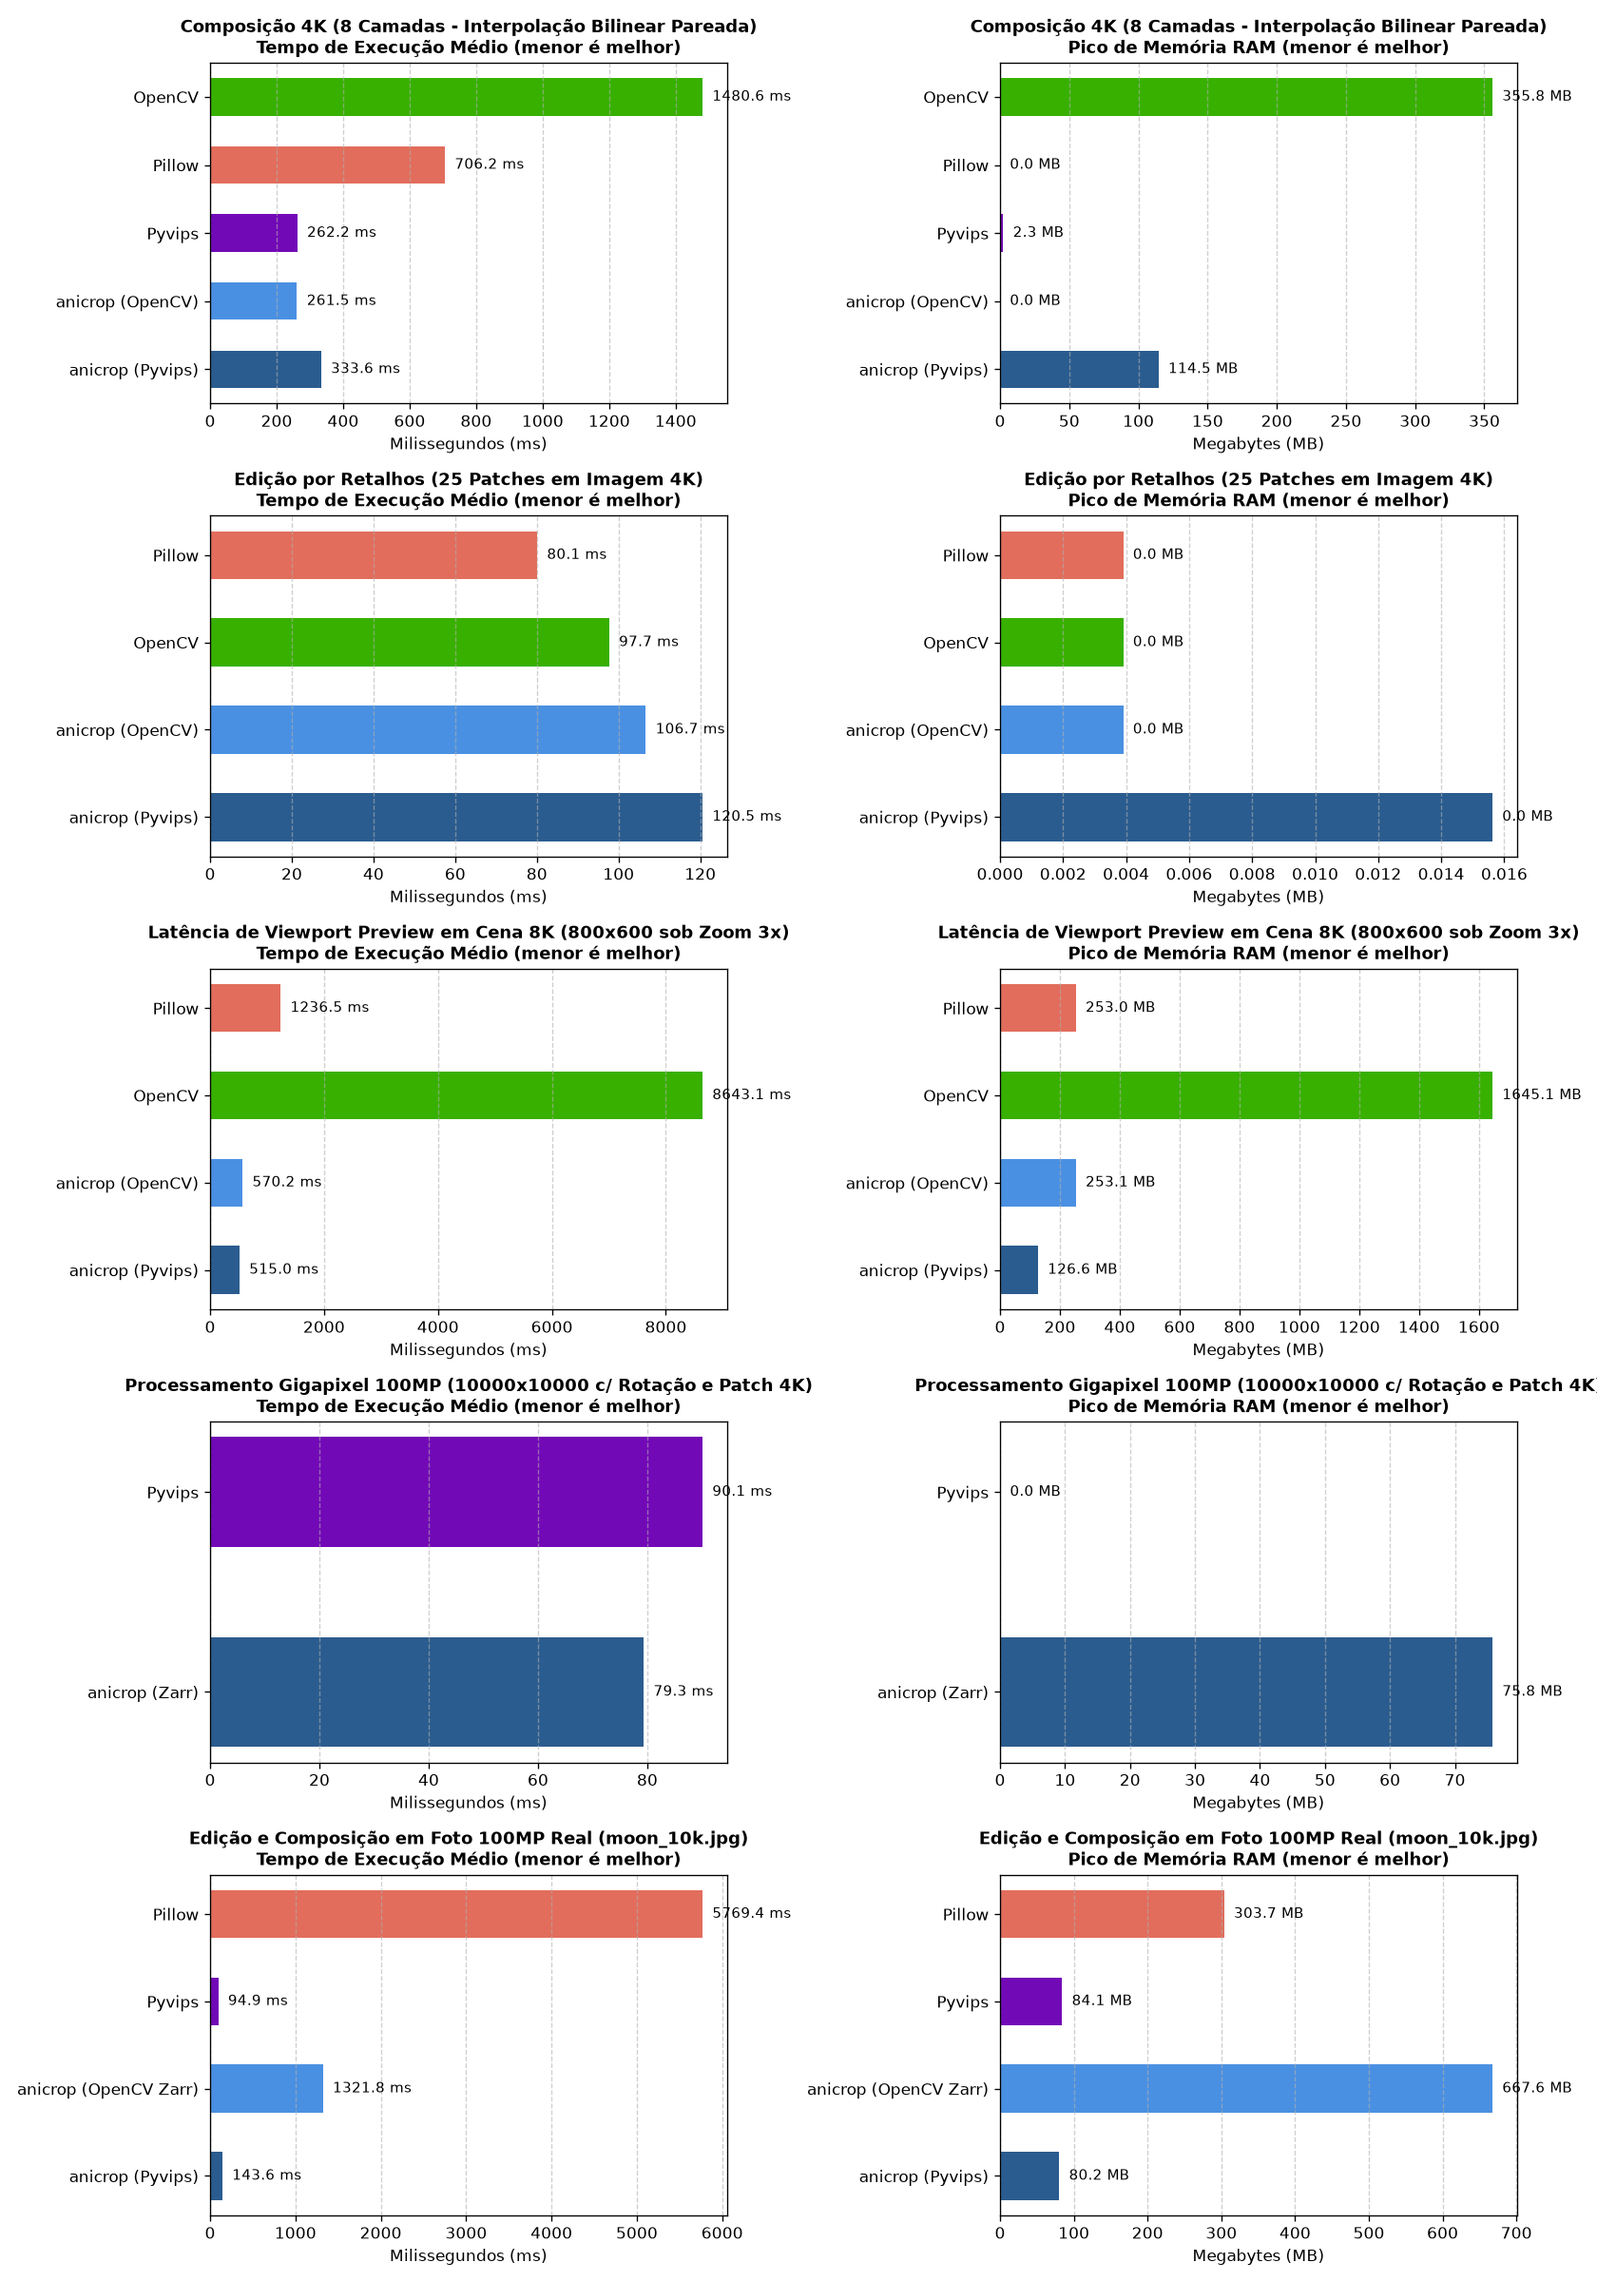
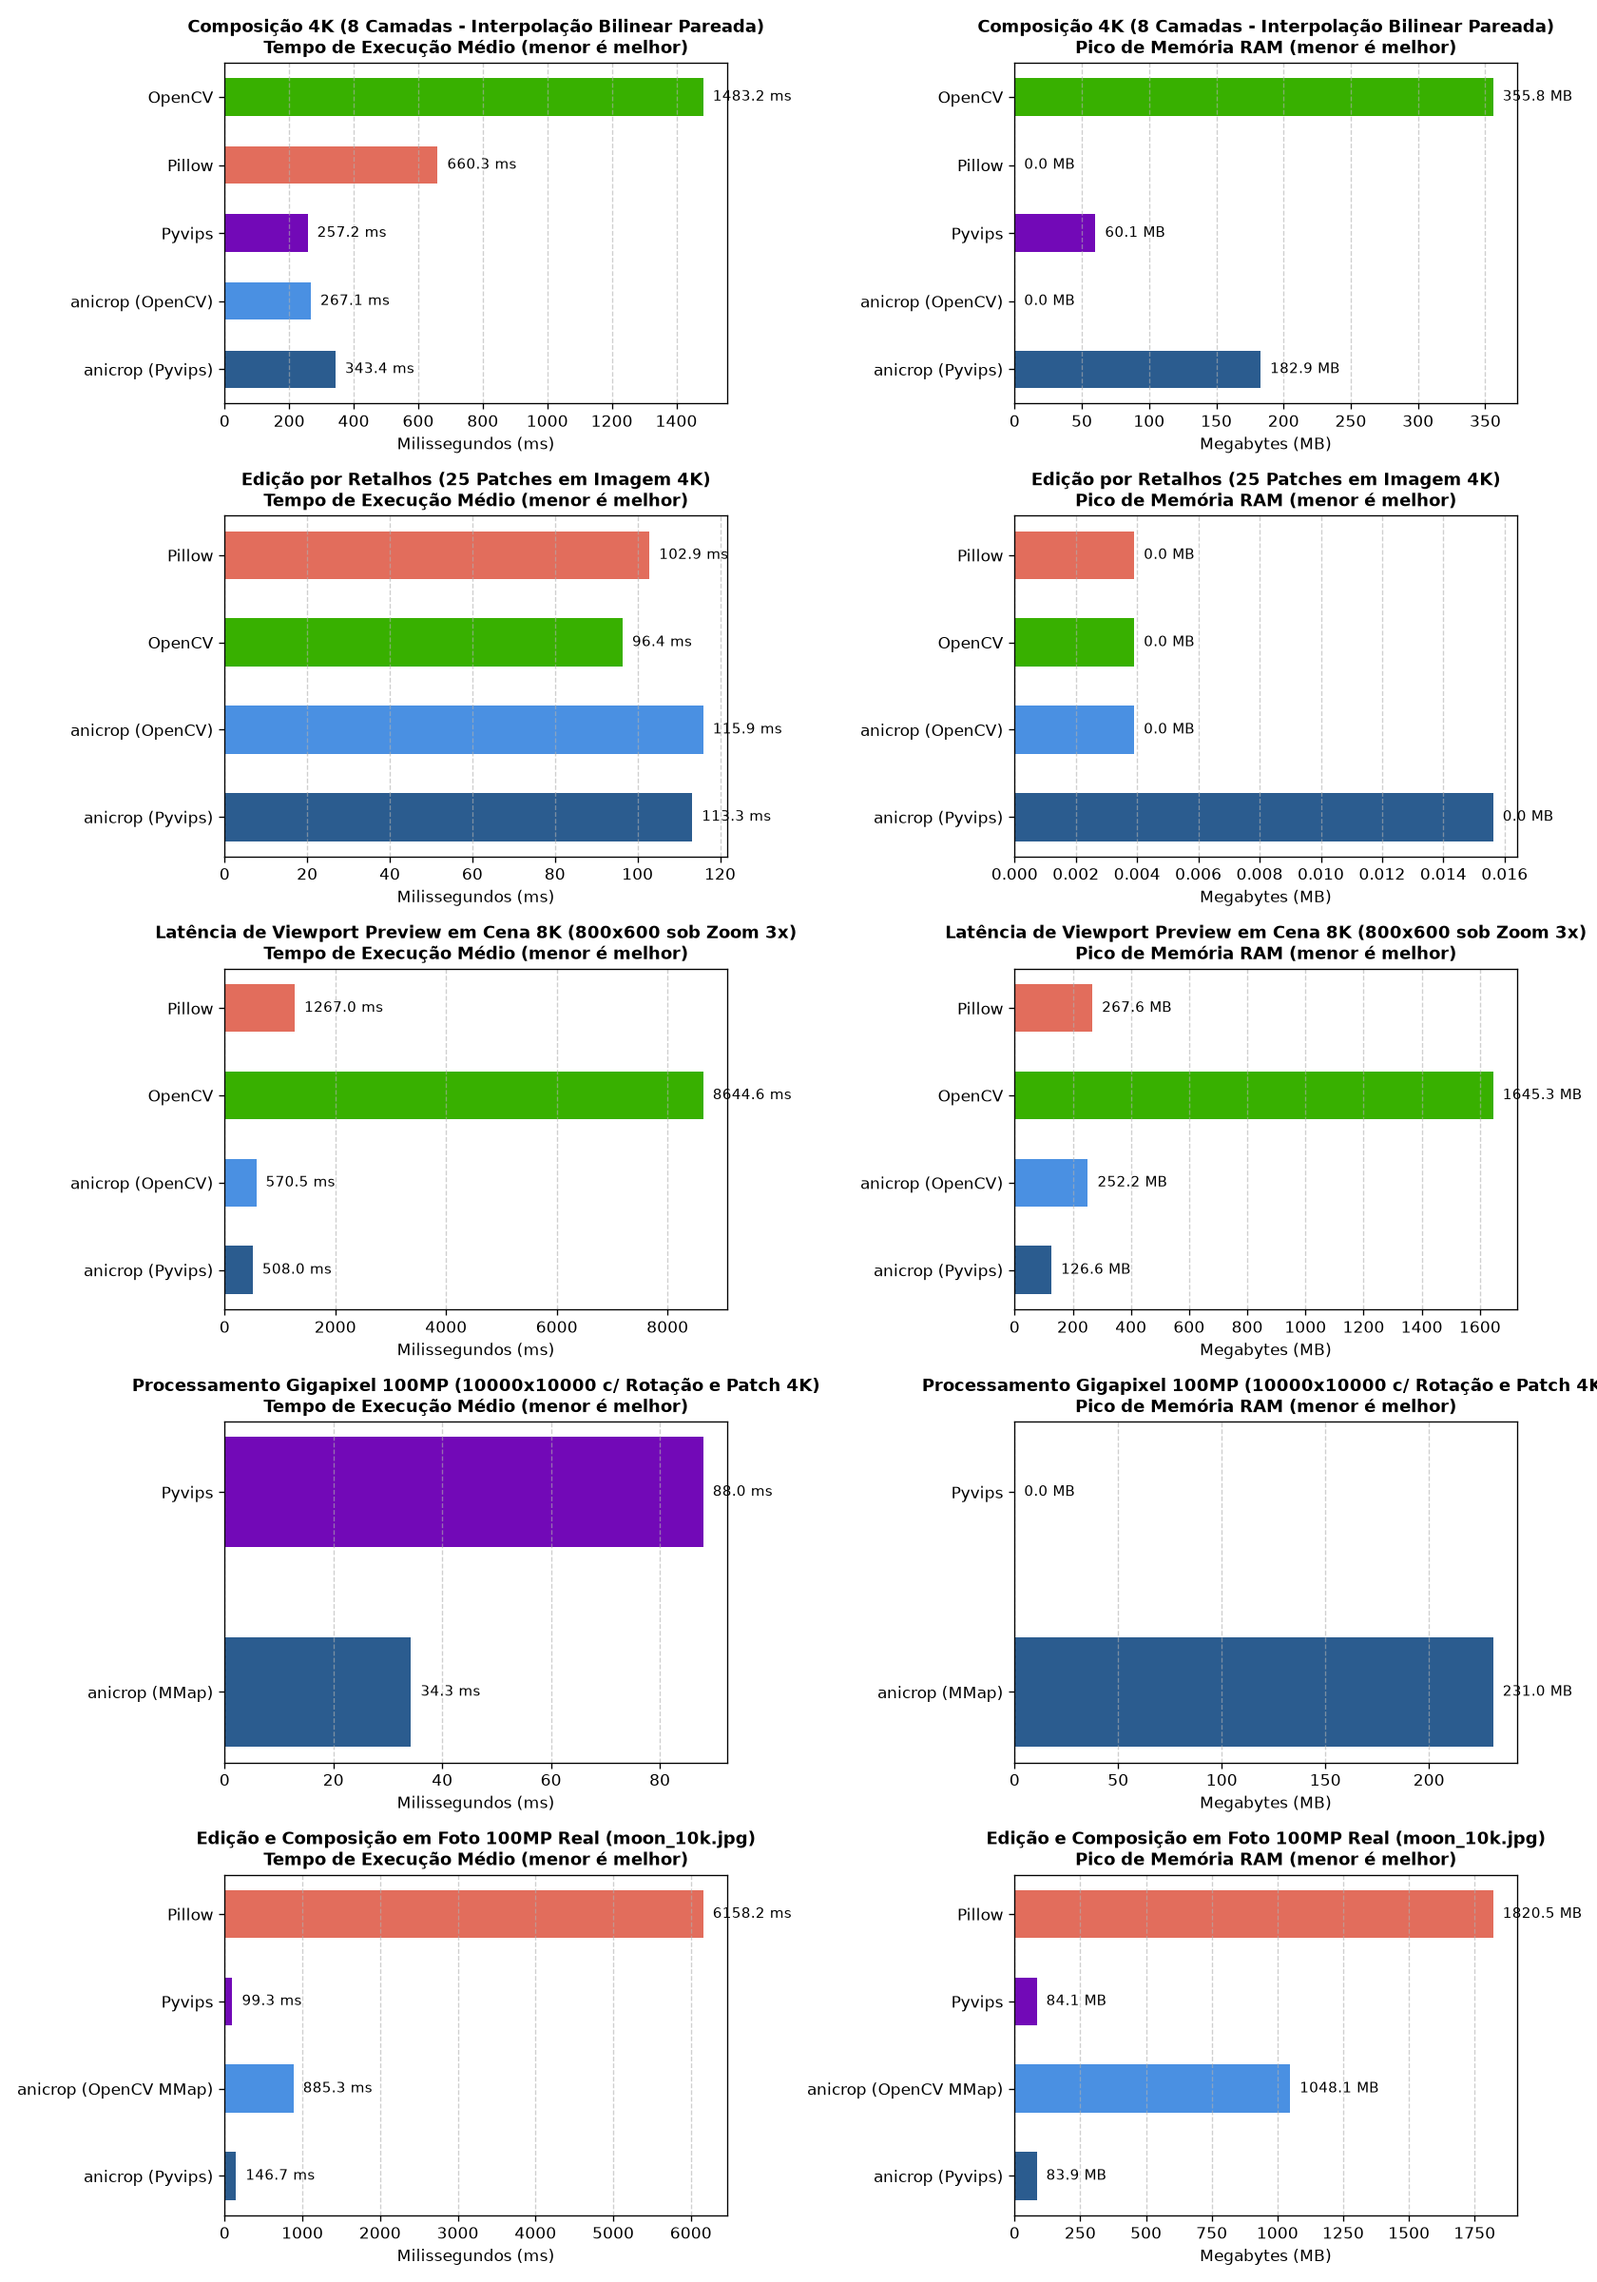
bench: atualiza metricas consolidadas com o novo backend mmapbuffer
- Registra ganho de performance do MMapBuffer no Cenario D (34.26 ms vs 79.35 ms do Zarr).
- Registra aceleracao do backend OpenCV MMap no Cenario E (885.34 ms vs 1321.78 ms do Zarr).
- Atualiza grafico consolidado benchmarks/benchmark_comparison.png.

diff --git a/benchmarks/RESULTS.md b/benchmarks/RESULTS.md
@@ -1,6 +1,6 @@
 # Avaliação de Desempenho do anicrop em Pipelines de Renderização 2D
 
-> **Data de Execução:** 2026-09-05 02:10:57
+> **Data de Execução:** 2026-09-05 03:23:53
 > **Ambiente:** Python 3.12+, uv virtualenv, Linux
 > **Bibliotecas Analisadas:** `anicrop`, `Pillow`, `OpenCV` (NumPy), `Pyvips`
 
@@ -10,49 +10,49 @@
 
 | Biblioteca           | Tempo Médio   | Throughput (FPS)   | Min        | Max        | Pico RAM   |
 |----------------------|---------------|--------------------|------------|------------|------------|
-| **anicrop (Pyvips)** | 333.60 ms     | 3.00 FPS           | 328.86 ms  | 336.76 ms  | 114.48 MB  |
-| **anicrop (OpenCV)** | 261.45 ms     | 3.82 FPS           | 260.03 ms  | 263.54 ms  | 0.00 MB    |
-| **Pyvips**           | 262.19 ms     | 3.81 FPS           | 254.75 ms  | 274.82 ms  | 2.29 MB    |
-| **Pillow**           | 706.20 ms     | 1.42 FPS           | 651.05 ms  | 740.21 ms  | 0.00 MB    |
-| **OpenCV**           | 1480.63 ms    | 0.68 FPS           | 1467.53 ms | 1492.97 ms | 355.85 MB  |
+| **anicrop (Pyvips)** | 343.37 ms     | 2.91 FPS           | 325.42 ms  | 392.97 ms  | 182.90 MB  |
+| **anicrop (OpenCV)** | 267.07 ms     | 3.74 FPS           | 260.34 ms  | 275.06 ms  | 0.00 MB    |
+| **Pyvips**           | 257.18 ms     | 3.89 FPS           | 252.42 ms  | 267.29 ms  | 60.12 MB   |
+| **Pillow**           | 660.32 ms     | 1.51 FPS           | 639.48 ms  | 699.54 ms  | 0.01 MB    |
+| **OpenCV**           | 1483.19 ms    | 0.67 FPS           | 1476.53 ms | 1489.49 ms | 355.85 MB  |
 
 
 ### Edição por Retalhos (25 Patches em Imagem 4K)
 
 | Biblioteca           | Tempo Médio   | Throughput (FPS)   | Min       | Max       | Pico RAM   |
 |----------------------|---------------|--------------------|-----------|-----------|------------|
-| **anicrop (Pyvips)** | 120.55 ms     | 8.30 FPS           | 99.52 ms  | 170.74 ms | 0.02 MB    |
-| **anicrop (OpenCV)** | 106.66 ms     | 9.38 FPS           | 102.83 ms | 113.31 ms | 0.00 MB    |
-| **OpenCV**           | 97.69 ms      | 10.24 FPS          | 95.67 ms  | 105.46 ms | 0.00 MB    |
-| **Pillow**           | 80.07 ms      | 12.49 FPS          | 79.47 ms  | 83.19 ms  | 0.00 MB    |
+| **anicrop (Pyvips)** | 113.25 ms     | 8.83 FPS           | 103.40 ms | 153.25 ms | 0.02 MB    |
+| **anicrop (OpenCV)** | 115.91 ms     | 8.63 FPS           | 103.00 ms | 150.07 ms | 0.00 MB    |
+| **OpenCV**           | 96.38 ms      | 10.38 FPS          | 95.30 ms  | 99.10 ms  | 0.00 MB    |
+| **Pillow**           | 102.89 ms     | 9.72 FPS           | 102.18 ms | 105.79 ms | 0.00 MB    |
 
 
 ### Latência de Viewport Preview em Cena 8K (800x600 sob Zoom 3x)
 
 | Biblioteca           | Tempo Médio   | Throughput (FPS)   | Min        | Max        | Pico RAM   |
 |----------------------|---------------|--------------------|------------|------------|------------|
-| **anicrop (Pyvips)** | 515.00 ms     | 1.94 FPS           | 501.01 ms  | 538.86 ms  | 126.57 MB  |
-| **anicrop (OpenCV)** | 570.22 ms     | 1.75 FPS           | 568.61 ms  | 572.02 ms  | 253.14 MB  |
-| **OpenCV**           | 8643.10 ms    | 0.12 FPS           | 8624.09 ms | 8673.22 ms | 1645.06 MB |
-| **Pillow**           | 1236.51 ms    | 0.81 FPS           | 1234.99 ms | 1237.69 ms | 253.00 MB  |
+| **anicrop (Pyvips)** | 507.98 ms     | 1.97 FPS           | 502.59 ms  | 515.03 ms  | 126.58 MB  |
+| **anicrop (OpenCV)** | 570.51 ms     | 1.75 FPS           | 565.99 ms  | 577.45 ms  | 252.24 MB  |
+| **OpenCV**           | 8644.63 ms    | 0.12 FPS           | 8616.68 ms | 8665.15 ms | 1645.34 MB |
+| **Pillow**           | 1266.98 ms    | 0.79 FPS           | 1250.96 ms | 1287.28 ms | 267.59 MB  |
 
 
 ### Processamento Gigapixel 100MP (10000x10000 c/ Rotação e Patch 4K)
 
 | Biblioteca         | Tempo Médio   | Throughput (FPS)   | Min      | Max      | Pico RAM   |
 |--------------------|---------------|--------------------|----------|----------|------------|
-| **anicrop (Zarr)** | 79.35 ms      | 12.60 FPS          | 77.79 ms | 81.96 ms | 75.77 MB   |
-| **Pyvips**         | 90.10 ms      | 11.10 FPS          | 84.14 ms | 97.76 ms | 0.02 MB    |
+| **anicrop (MMap)** | 34.26 ms      | 29.19 FPS          | 33.36 ms | 35.70 ms | 230.98 MB  |
+| **Pyvips**         | 87.97 ms      | 11.37 FPS          | 82.83 ms | 97.38 ms | 0.02 MB    |
 
 
 ### Edição e Composição em Foto 100MP Real (moon_10k.jpg)
 
 | Biblioteca                | Tempo Médio   | Throughput (FPS)   | Min        | Max        | Pico RAM   |
 |---------------------------|---------------|--------------------|------------|------------|------------|
-| **anicrop (Pyvips)**      | 143.64 ms     | 6.96 FPS           | 139.27 ms  | 148.18 ms  | 80.19 MB   |
-| **anicrop (OpenCV Zarr)** | 1321.78 ms    | 0.76 FPS           | 1310.74 ms | 1341.76 ms | 667.58 MB  |
-| **Pyvips**                | 94.92 ms      | 10.53 FPS          | 93.54 ms   | 96.21 ms   | 84.08 MB   |
-| **Pillow**                | 5769.35 ms    | 0.17 FPS           | 5757.28 ms | 5792.52 ms | 303.74 MB  |
+| **anicrop (Pyvips)**      | 146.66 ms     | 6.82 FPS           | 140.25 ms  | 156.15 ms  | 83.94 MB   |
+| **anicrop (OpenCV MMap)** | 885.34 ms     | 1.13 FPS           | 881.39 ms  | 891.38 ms  | 1048.05 MB |
+| **Pyvips**                | 99.35 ms      | 10.07 FPS          | 92.19 ms   | 109.54 ms  | 84.08 MB   |
+| **Pillow**                | 6158.24 ms    | 0.16 FPS           | 6153.82 ms | 6161.71 ms | 1820.51 MB |
 
 
 ## 📈 Gráficos Comparativos
